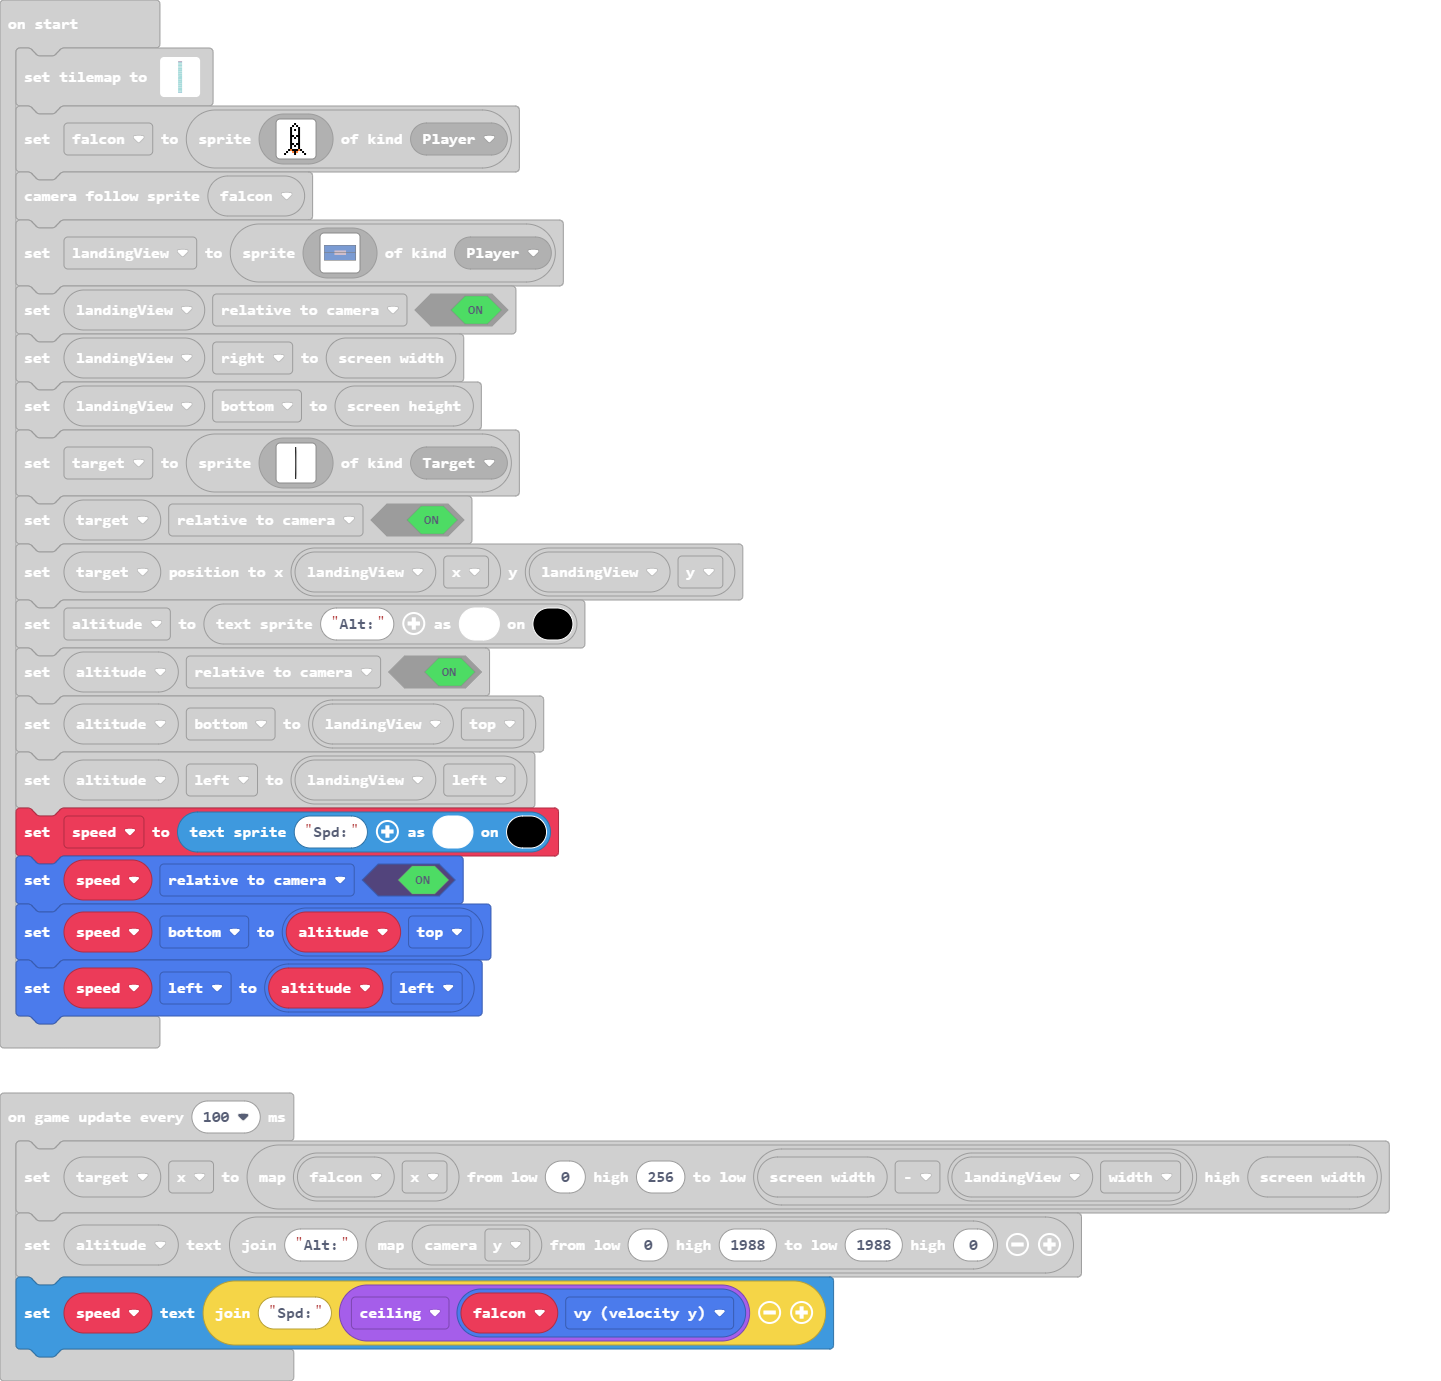
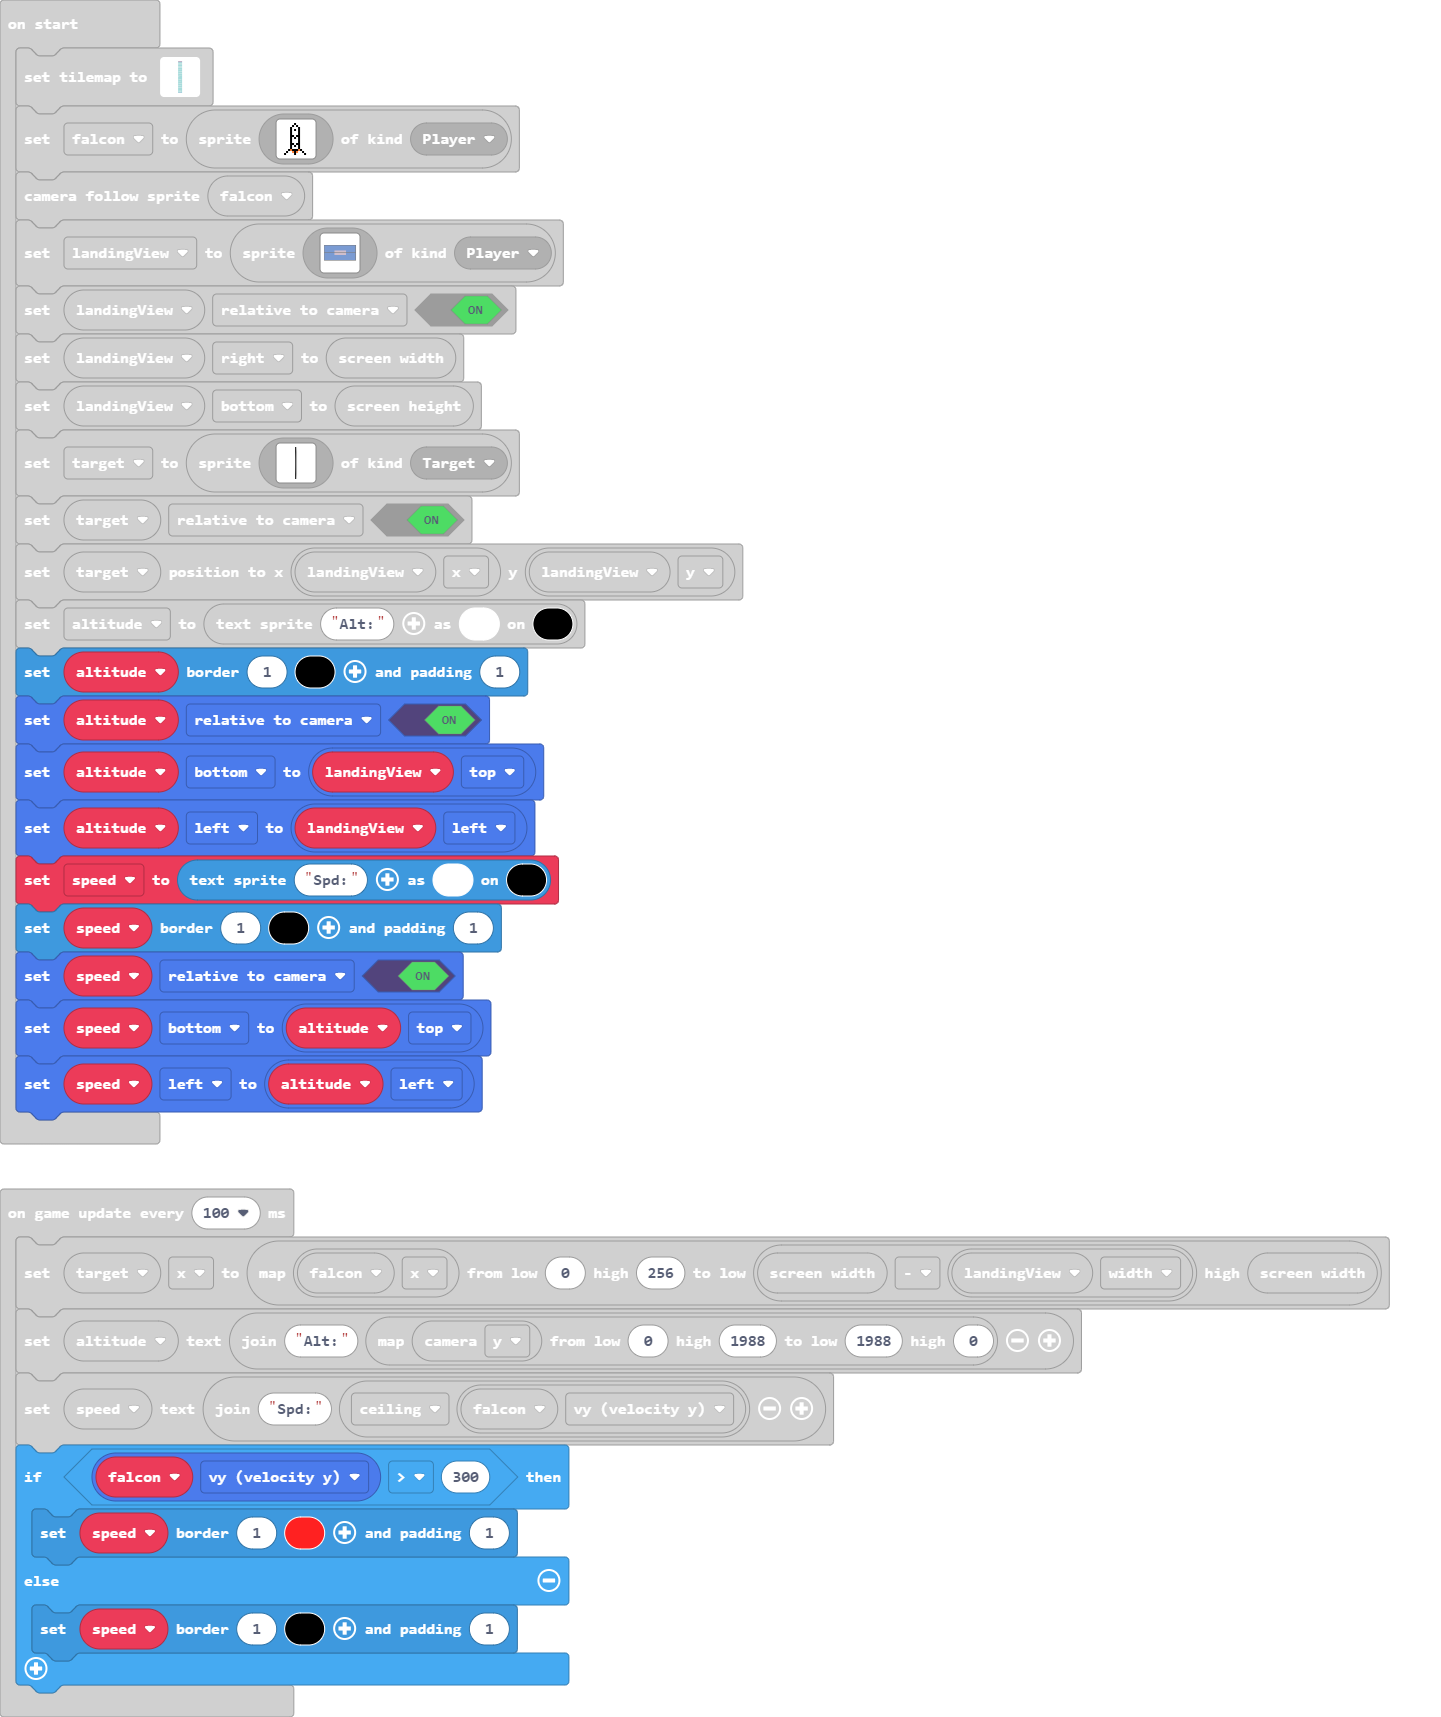
Add borders to text sprites. Set speed border red if too fast.

diff --git a/main.ts b/main.ts
@@ -233,10 +233,12 @@ let target = sprites.create(img`
 target.setFlag(SpriteFlag.RelativeToCamera, true)
 target.setPosition(landingView.x, landingView.y)
 let altitude = textsprite.create("Alt:", 15, 1)
+altitude.setBorder(1, 15, 1)
 altitude.setFlag(SpriteFlag.RelativeToCamera, true)
 altitude.bottom = landingView.top
 altitude.left = landingView.left
 let speed = textsprite.create("Spd:", 15, 1)
+speed.setBorder(1, 15, 1)
 speed.setFlag(SpriteFlag.RelativeToCamera, true)
 speed.bottom = altitude.top
 speed.left = altitude.left
@@ -252,4 +254,9 @@ game.onUpdateInterval(100, function () {
     target.x = Math.map(falcon.x, 0, 256, scene.screenWidth() - landingView.width, scene.screenWidth())
     altitude.setText("Alt:" + Math.map(scene.cameraProperty(CameraProperty.Y), 0, 1988, 1988, 0))
     speed.setText("Spd:" + Math.ceil(falcon.vy))
+    if (falcon.vy > 300) {
+        speed.setBorder(1, 2, 1)
+    } else {
+        speed.setBorder(1, 15, 1)
+    }
 })
